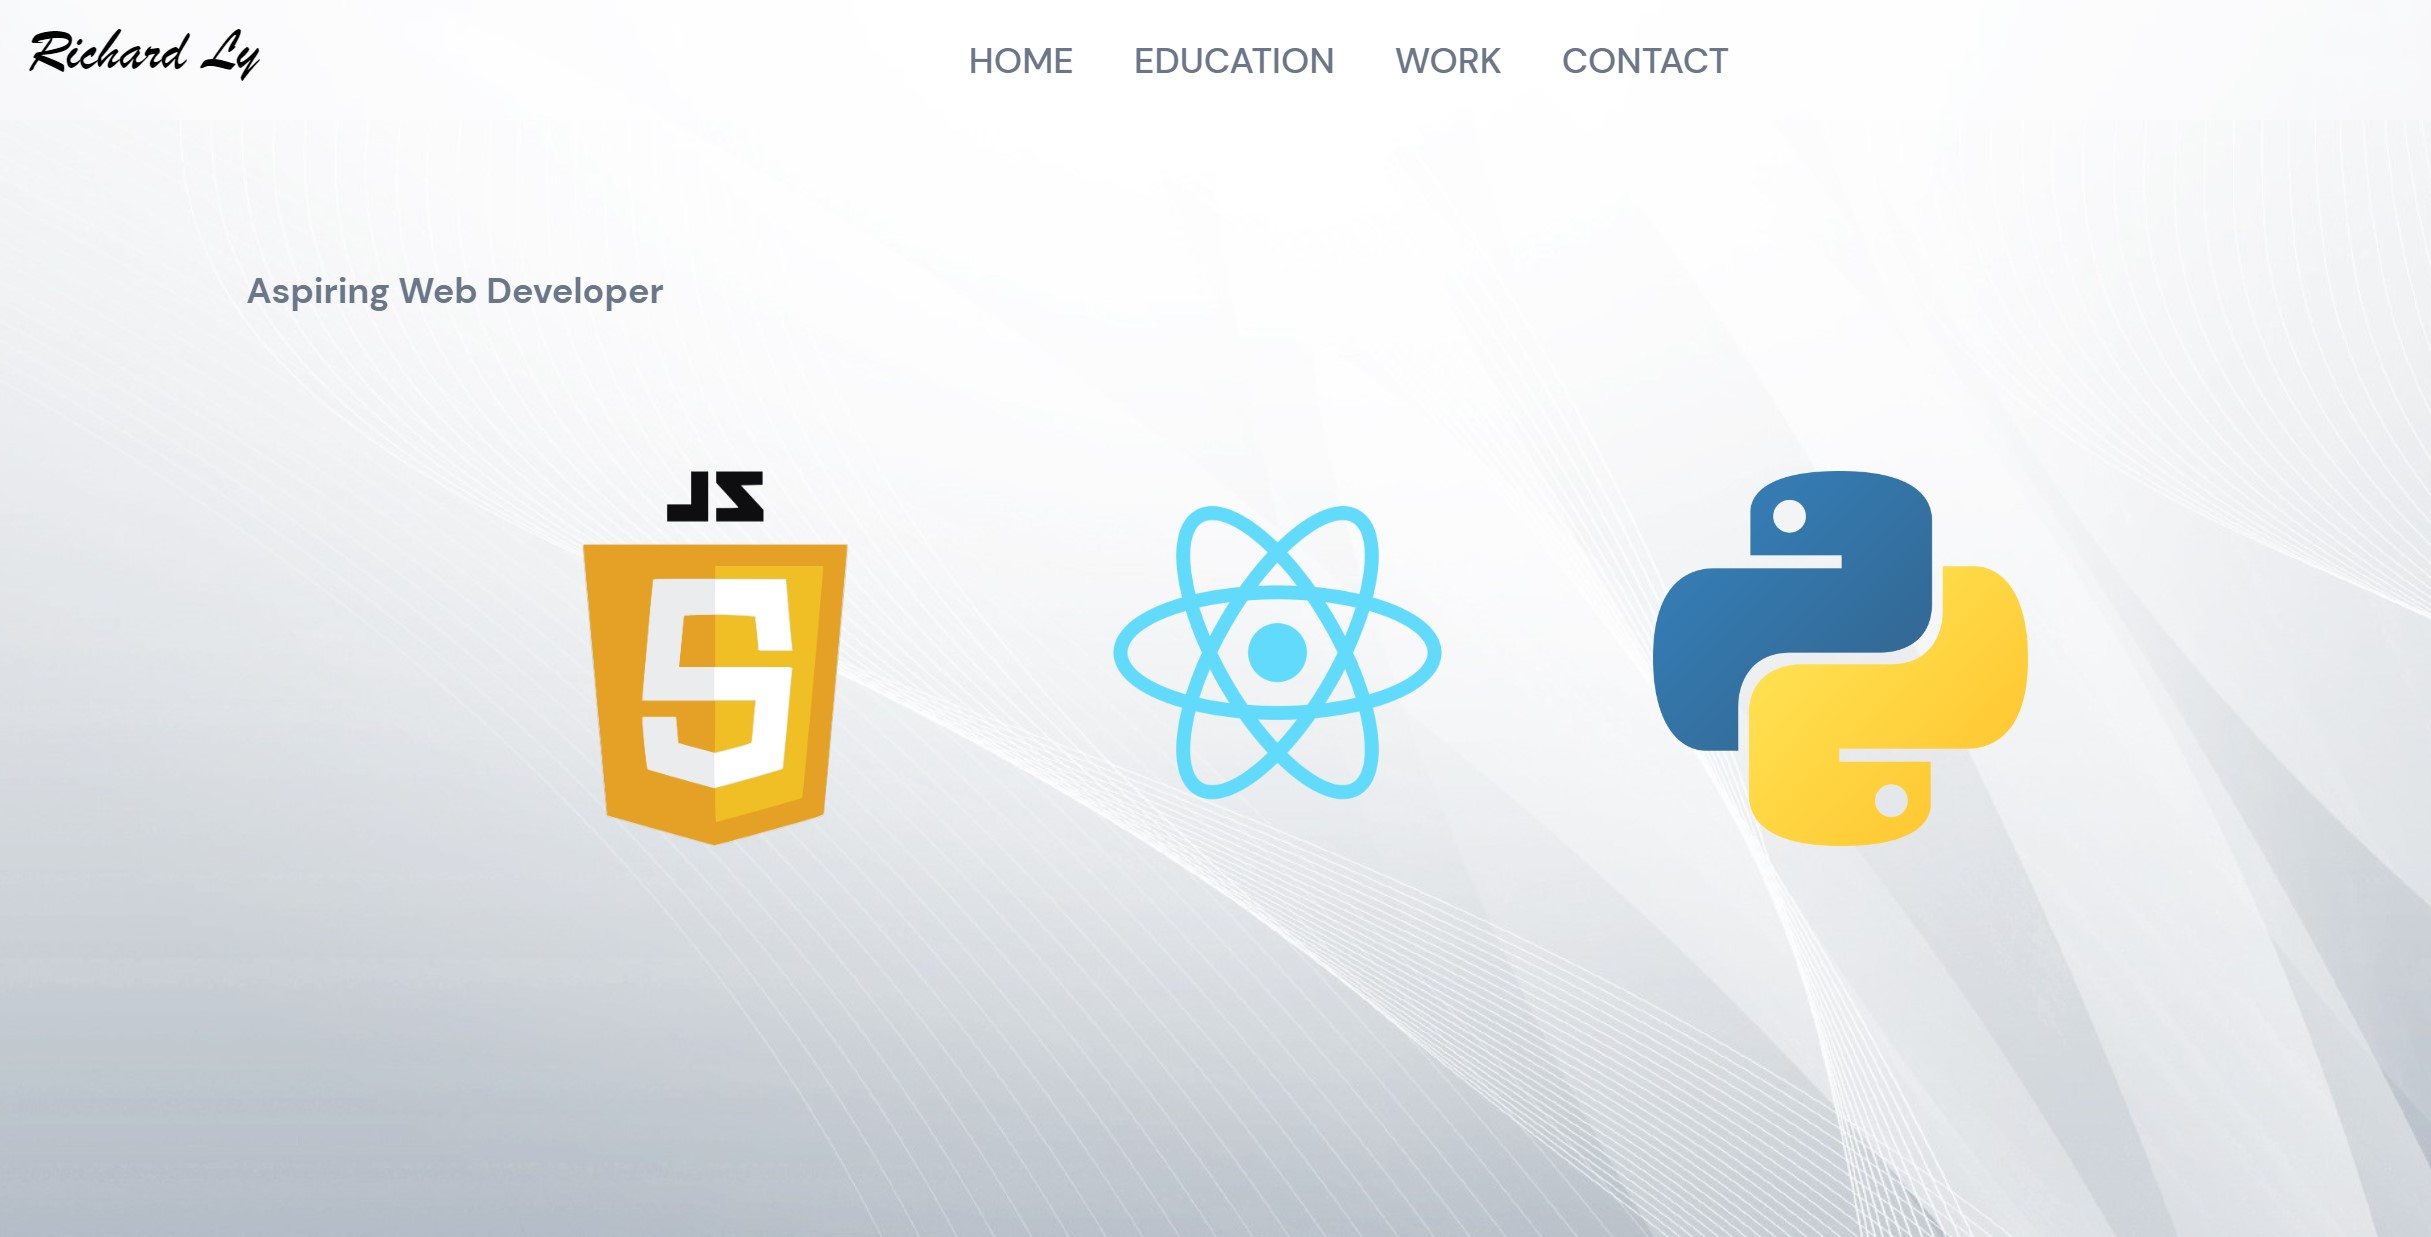
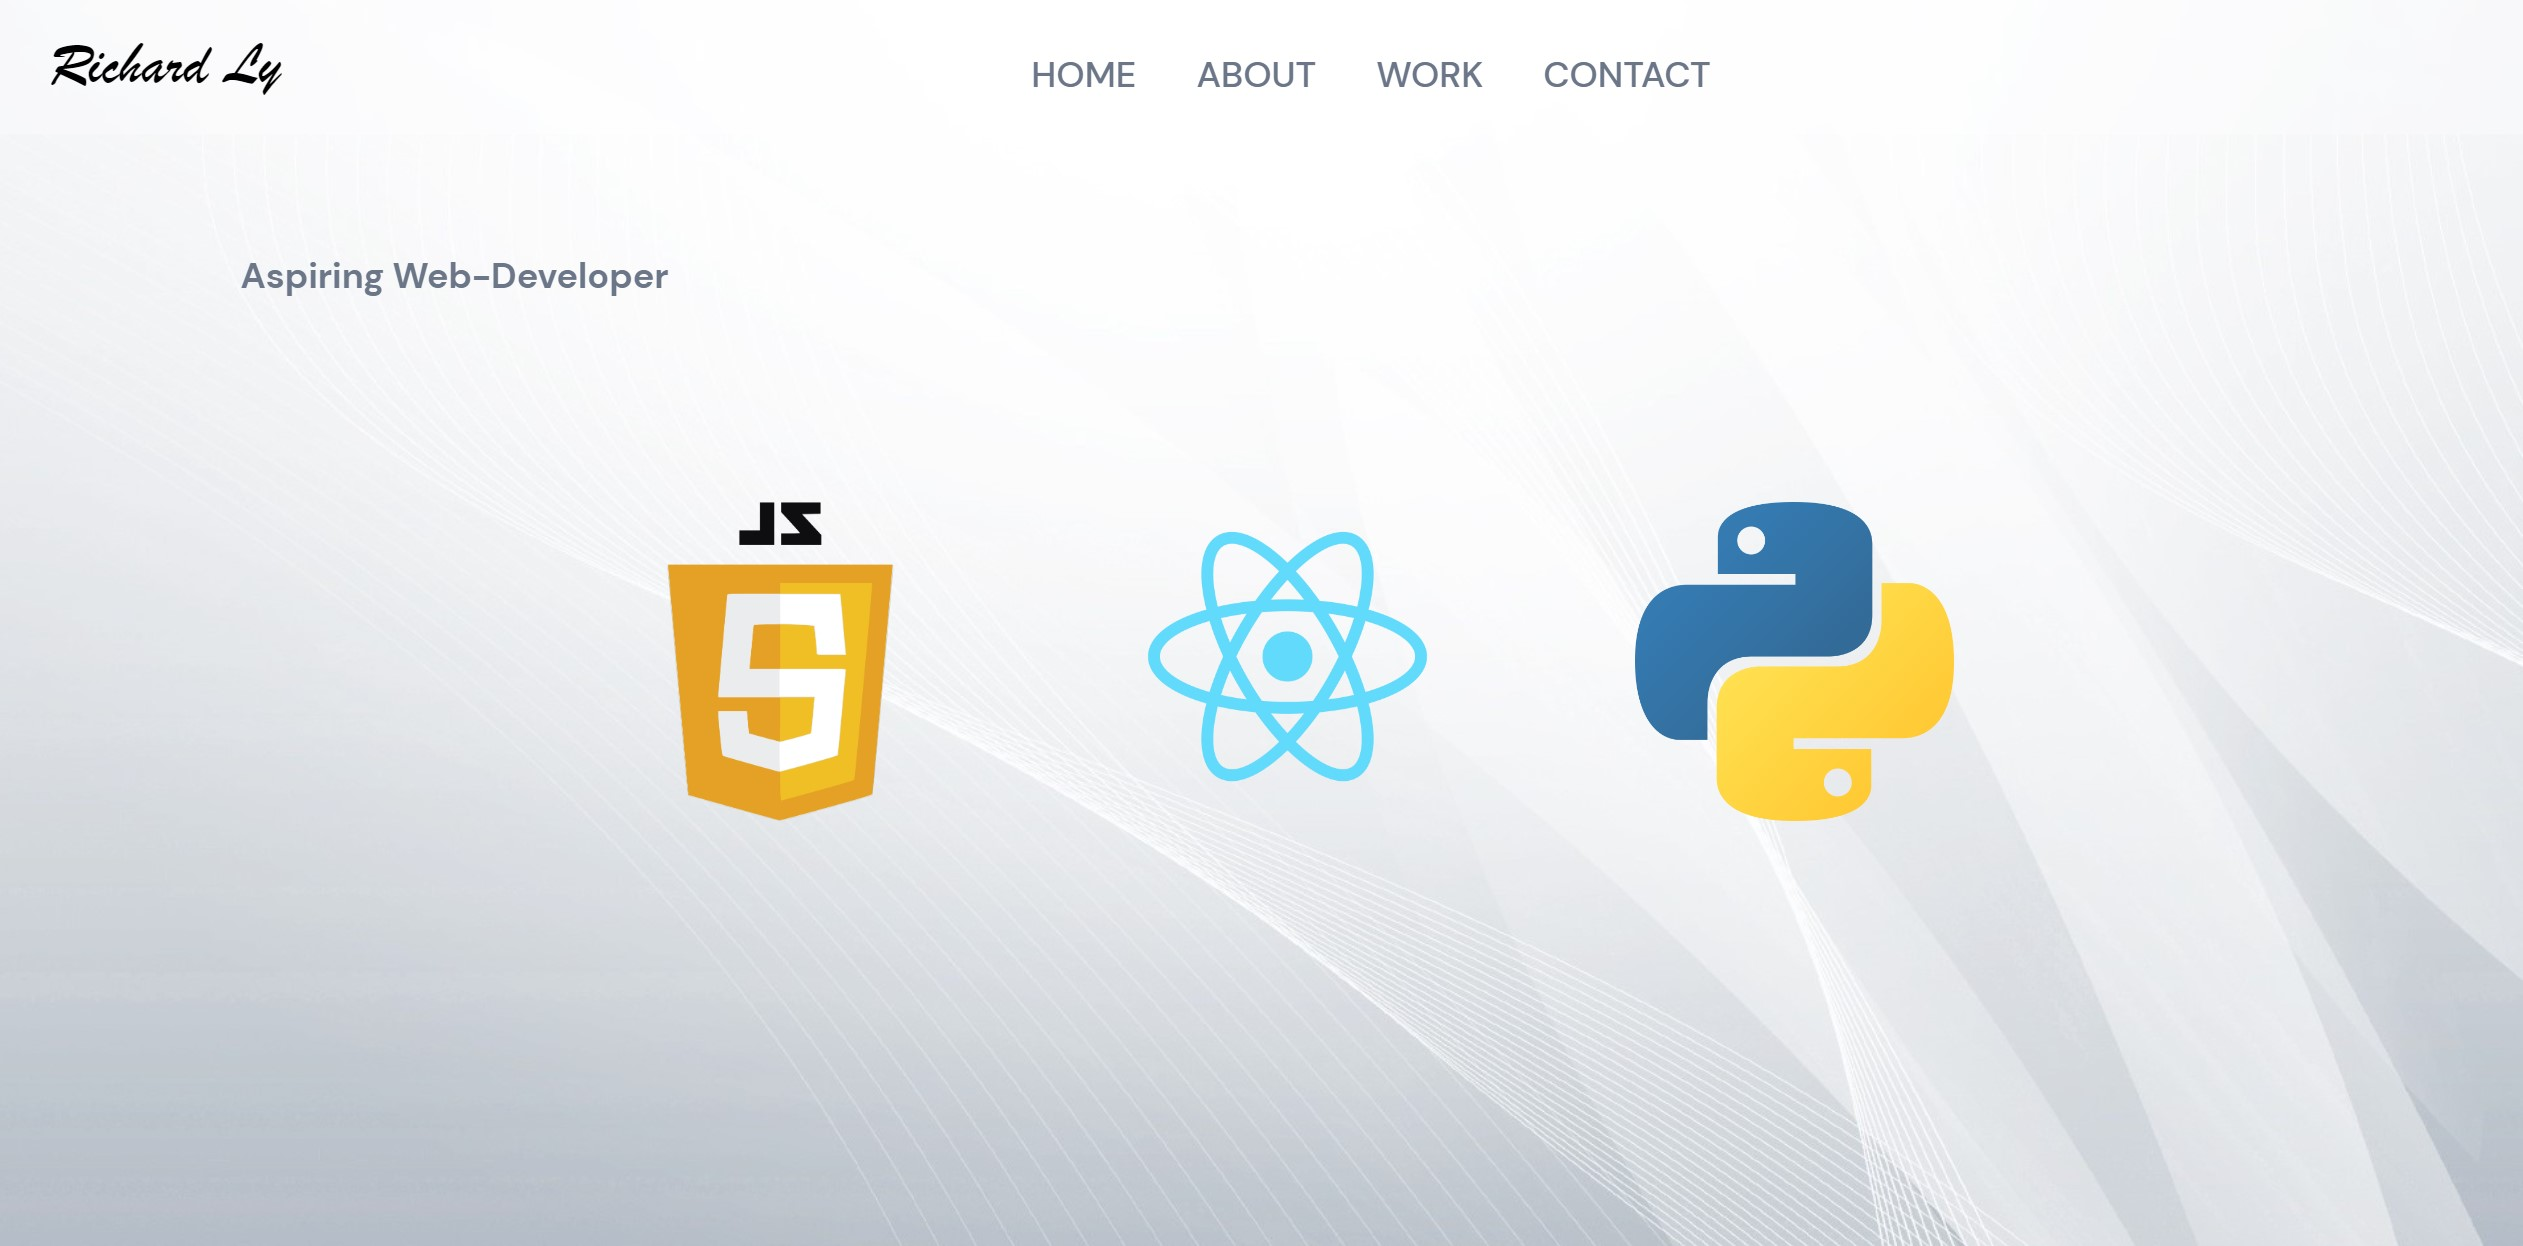
fifth commit

diff --git a/src/components/Navbar/Navbar.jsx b/src/components/Navbar/Navbar.jsx
@@ -14,7 +14,7 @@ const Navbar = () => {
         <h1 className="logo">Richard Ly</h1>
         
       <ul className="app__navbar-links">
-        {['home', 'education', 'work', 'contact'].map((item) => (
+        {['home', 'about', 'work', 'contact'].map((item) => (
           <motion.div whileHover={{ scale: 1.1 }} transition={{ duration: 0.5, type: 'tween' }}>
           <li className="app__flex p-text" key={`link-${item}`}>
             <div />
